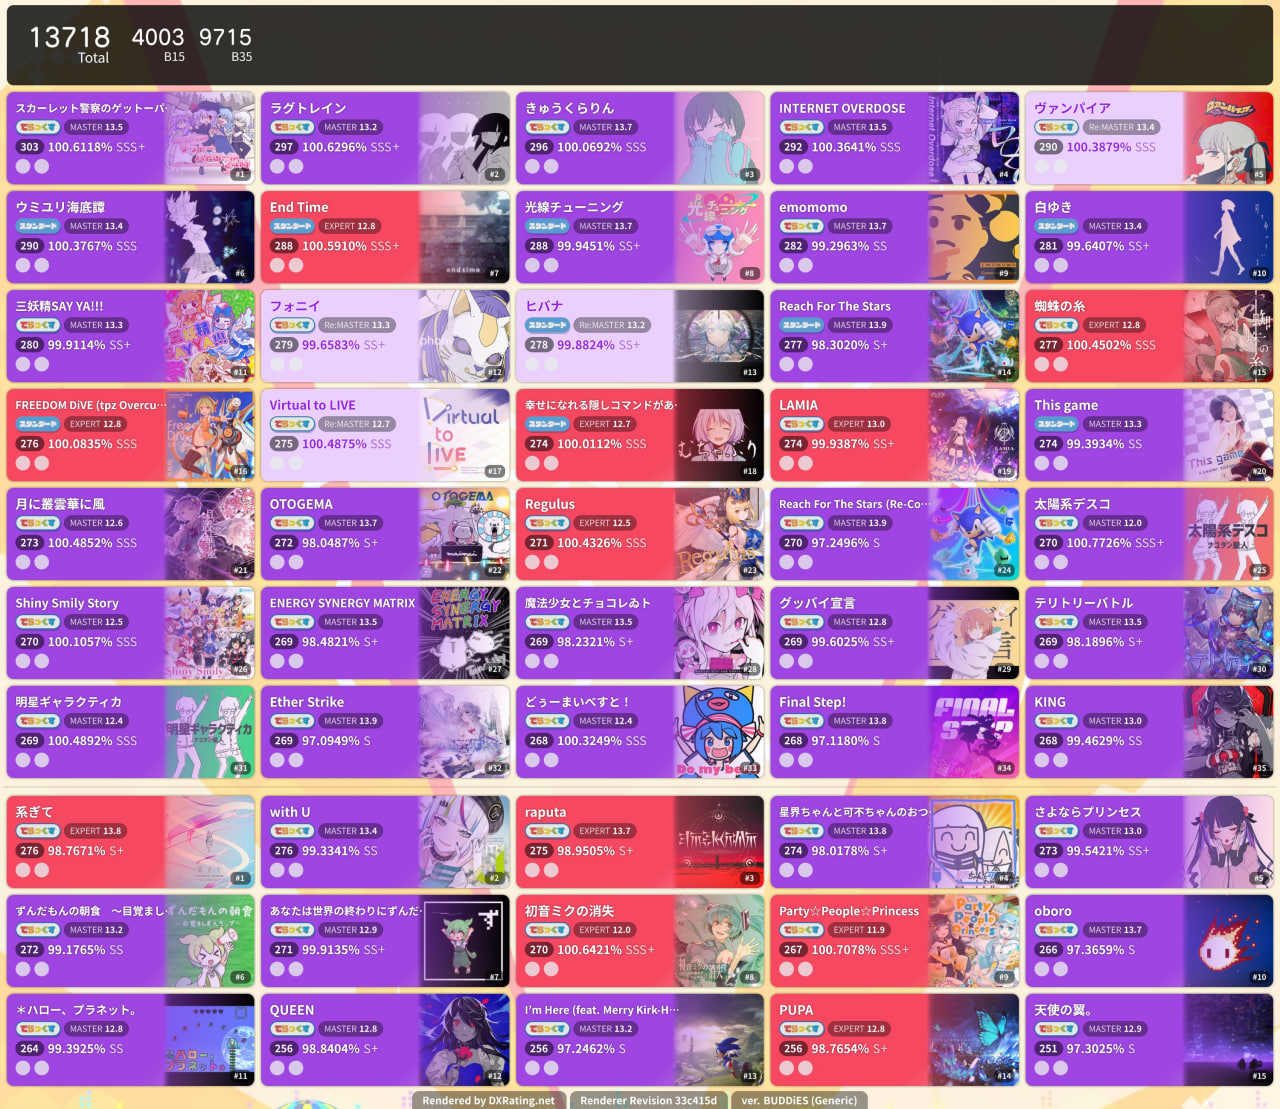
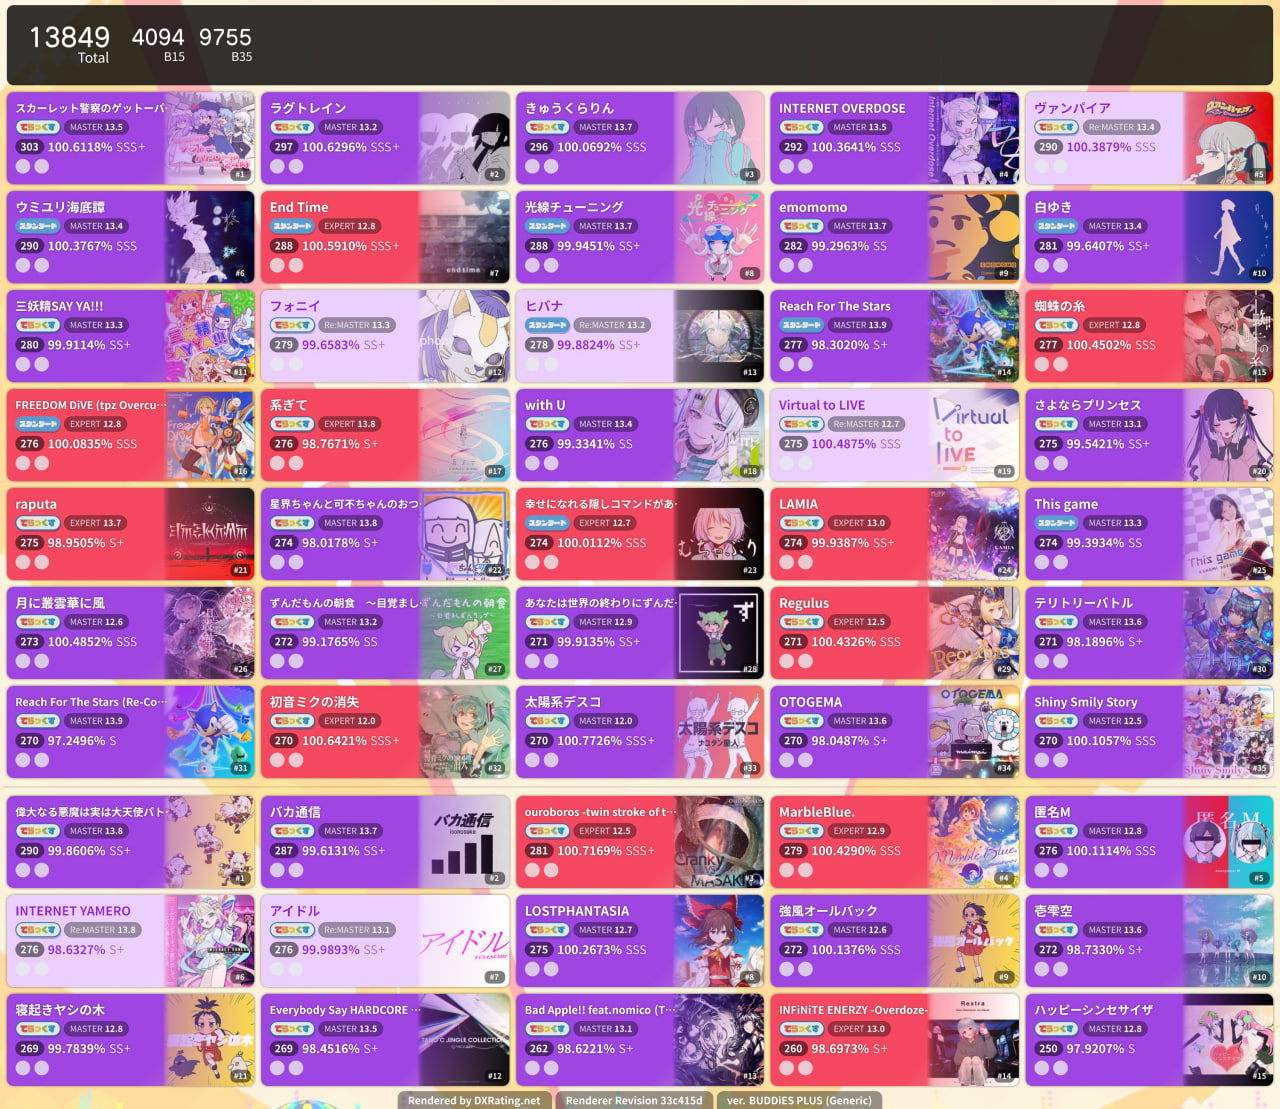
BDP Update

diff --git a/README.md b/README.md
@@ -8,7 +8,7 @@ Use `main.py` to add new scores.
 
 ## Current Best 50
 
-> Using maimai BUDDiES (Generic)
+> Using maimai BUDDiES PLUS (Generic)
 
 ![scoreb50.jpg](https://github.com/WiIIiamWei/maimai-scores/blob/master/scoreb50.jpg)
 
